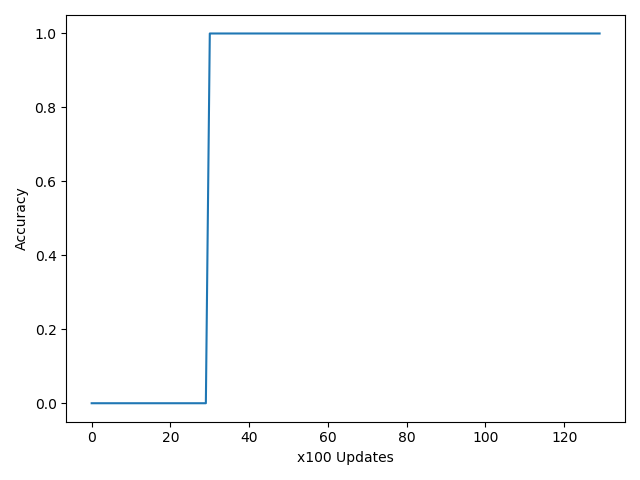
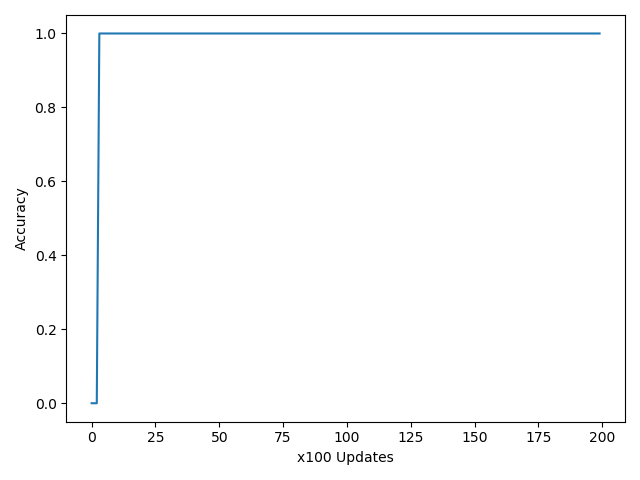
fixed small bug in separate_bad.py

diff --git a/separate_bad.py b/separate_bad.py
@@ -18,7 +18,7 @@ agent2_QFunction = np.zeros((env.nS, 2, int(env.nA/2))) # positive or negative [
 alpha = 0.01
 gamma = 0.9
 epsilon = 0.2
-episodes = 13000
+episodes = 20000
 
 state = env.s
 reward = 0
@@ -94,9 +94,9 @@ for i in range(episodes):
     if i % 100 == 0:
         # test
         goal_found = 0
-        a1_sum_q = 0
-        a2_sum_q = 0
         for j in range(100):
+            a1_sum_q = 0
+            a2_sum_q = 0
             simulate(training=False)
         q_values.append([a1_sum_q, a2_sum_q])
         accuracy.append([i/100, goal_found/100])
